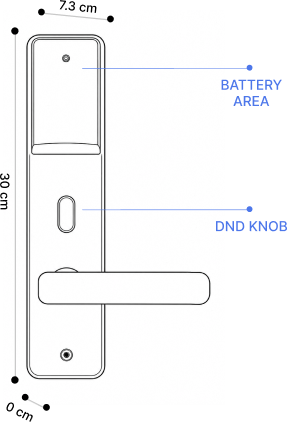
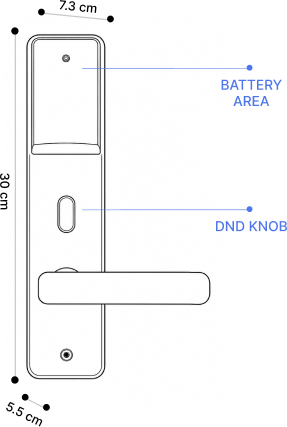
Dimensions: 5.5 cm at the bottom of both drawings, like LH510
The design says 0 cm there. Also the LH500 sizes in the screen reader text (7.3 cm, 14 cm)
and a plain alt text for the durability banner.

diff --git a/assets/lh500-dimensions.css b/assets/lh500-dimensions.css
@@ -47,14 +47,14 @@
   .lh-dimensions .lh-dimensions__title{ max-width: calc(30 * var(--lh-u)); margin: 0 auto calc(2.7 * var(--lh-u)); }
   /* centred on wider phones */
   .lh-dimensions .lh-dimensions__grid{ display: block; min-height: 0; width: calc(40.2 * var(--lh-u)); margin-inline: calc((100% - 40.2 * var(--lh-u)) / 2); }
-  .lh-dimensions .lh-dimensions__figure--mortise{ border: 0; margin-top: calc(-6.88 * var(--lh-u)); }
+  .lh-dimensions .lh-dimensions__figure--mortise{ border: 0; margin-top: calc(-7.28 * var(--lh-u)); }
   .lh-dimensions .lh-dimensions__figure--back{ margin-top: calc(1.44 * var(--lh-u)); }
   .lh-dimensions .lh-dimensions__figure--front .lh-dimensions__img{ margin: calc(0.32 * var(--lh-u)) 0 0 calc(4.12 * var(--lh-u)); }
   .lh-dimensions .lh-dimensions__figure--mortise .lh-dimensions__img{ margin: 0 0 0 calc(6.08 * var(--lh-u)); }
   .lh-dimensions .lh-dimensions__figure--back .lh-dimensions__img{ margin: calc(0.32 * var(--lh-u)) 0 0 calc(4.64 * var(--lh-u)); }
   .lh-dimensions .lh-dimensions__footnote{ display: none; }
   /* portrait banner on phones */
-  .lh-dimensions .lh-dimensions__banner{ width: calc(36.2 * var(--lh-u)); max-width: 100%; margin: calc(6.88 * var(--lh-u)) auto 0; border-radius: calc(3.6 * var(--lh-u)); }
+  .lh-dimensions .lh-dimensions__banner{ width: calc(36.2 * var(--lh-u)); max-width: 100%; margin: calc(6.48 * var(--lh-u)) auto 0; border-radius: calc(3.6 * var(--lh-u)); }
   .lh-dimensions .lh-dimensions__banner-img--d{ display: none; }
   .lh-dimensions .lh-dimensions__banner-img--m{ display: block; aspect-ratio: 452 / 735; }
 }
